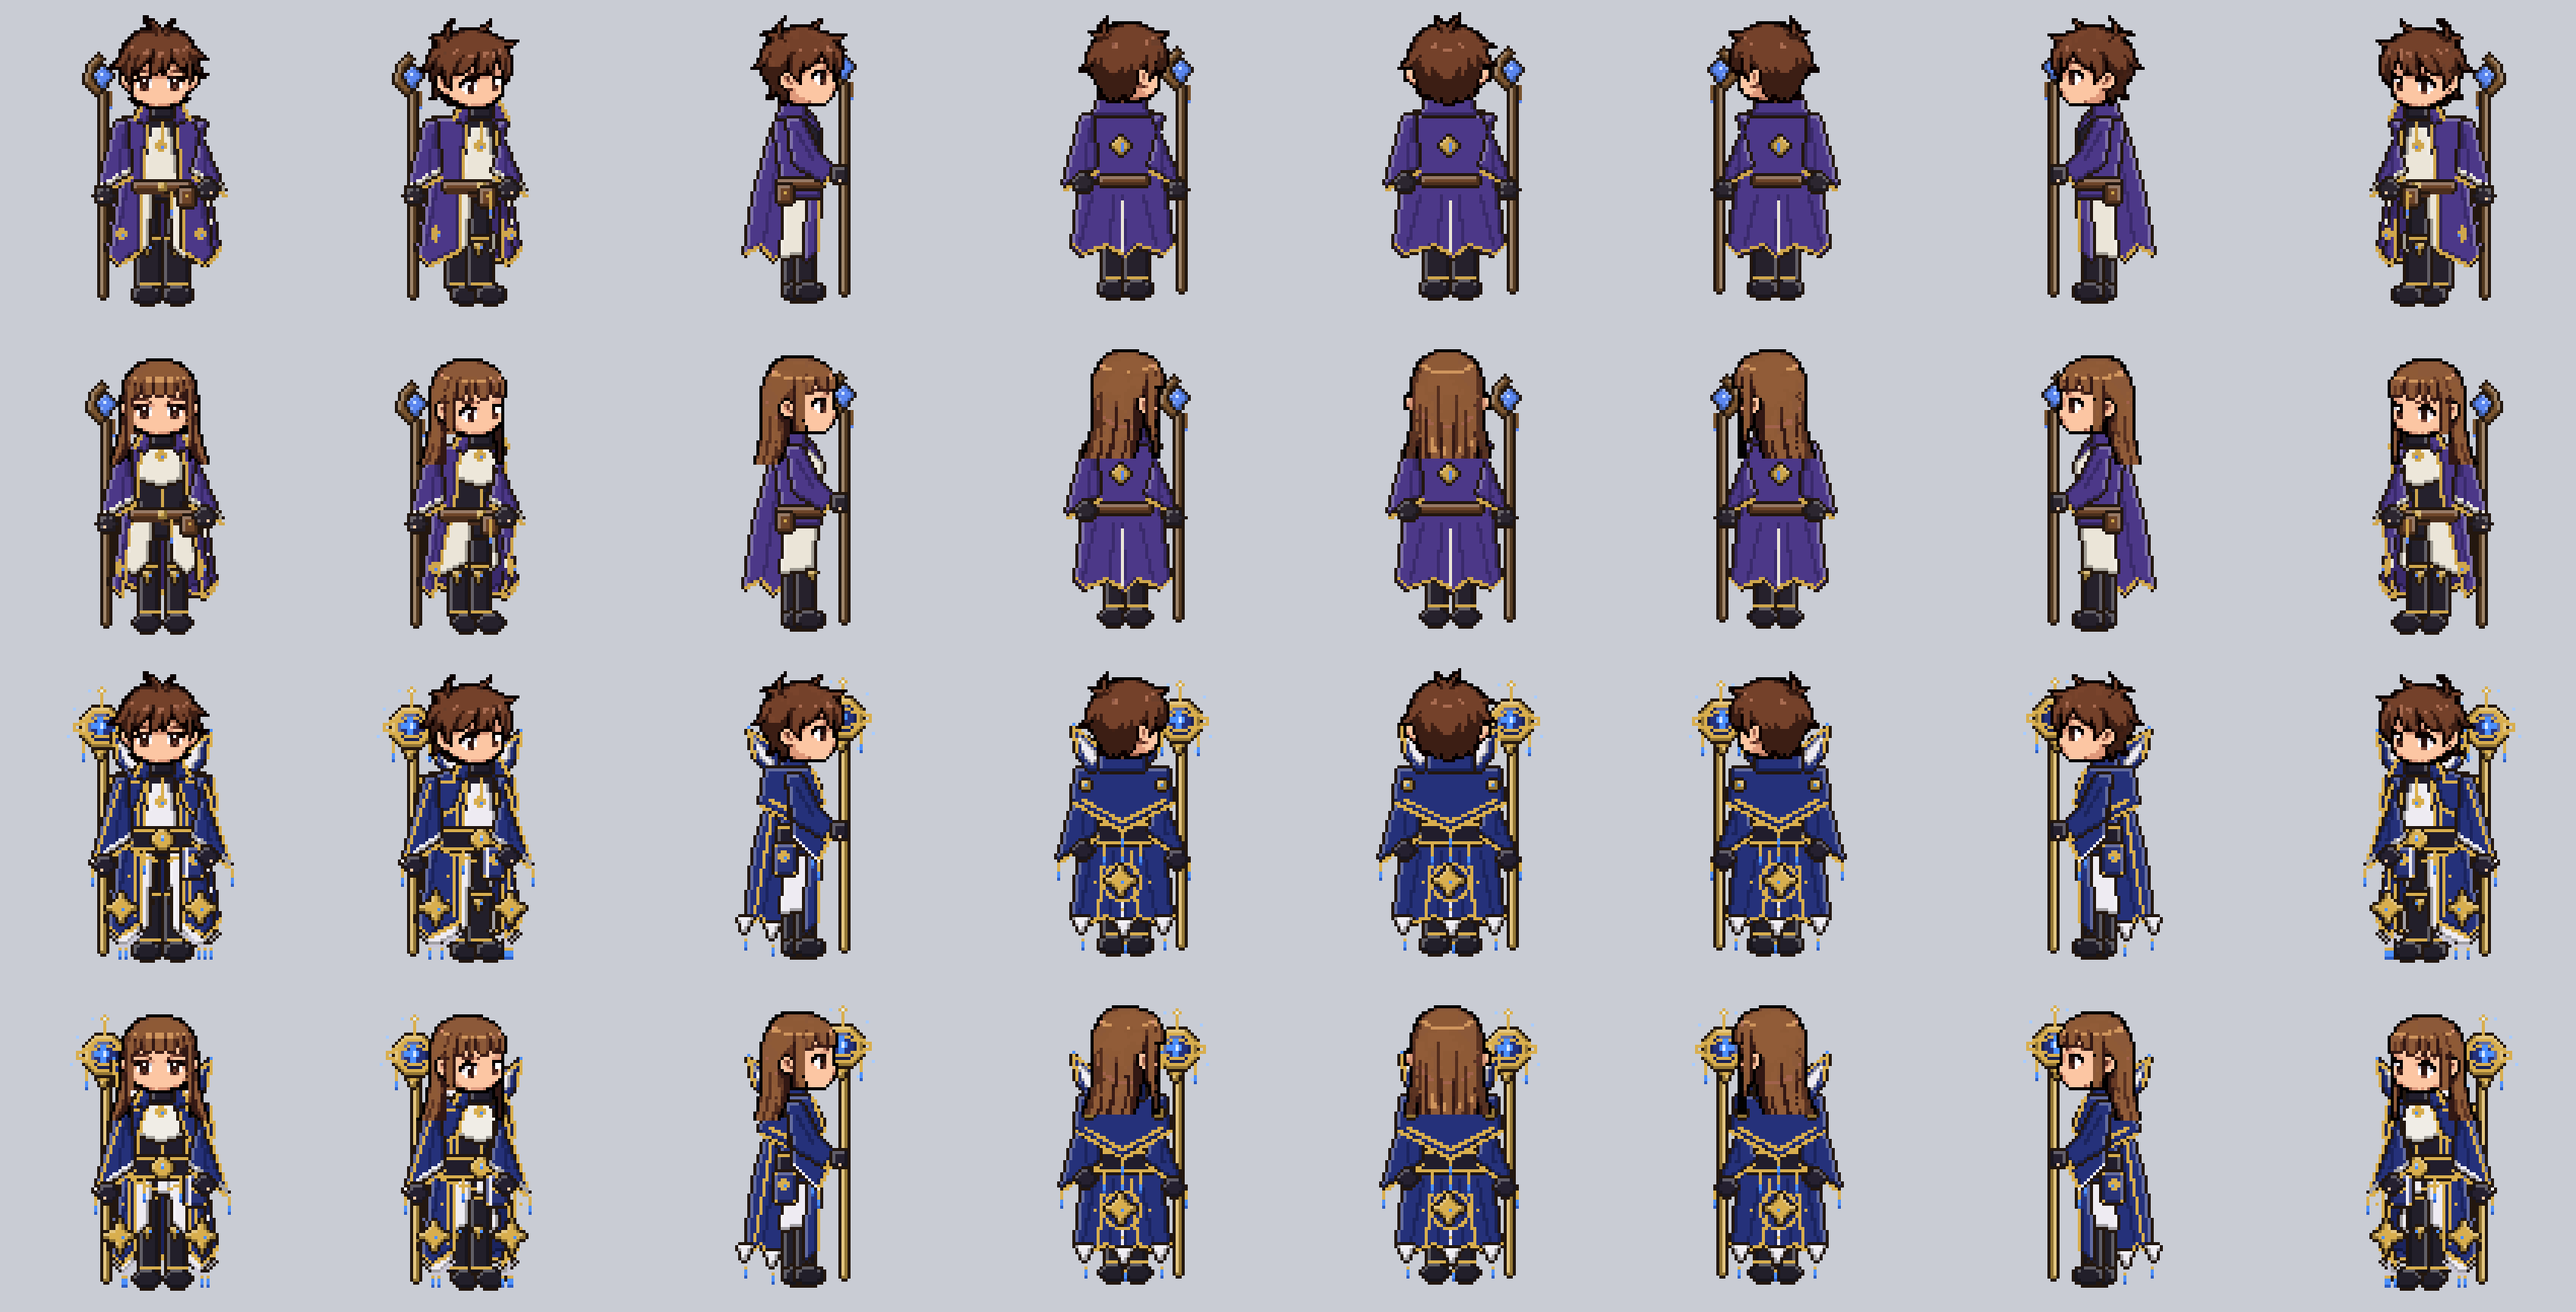
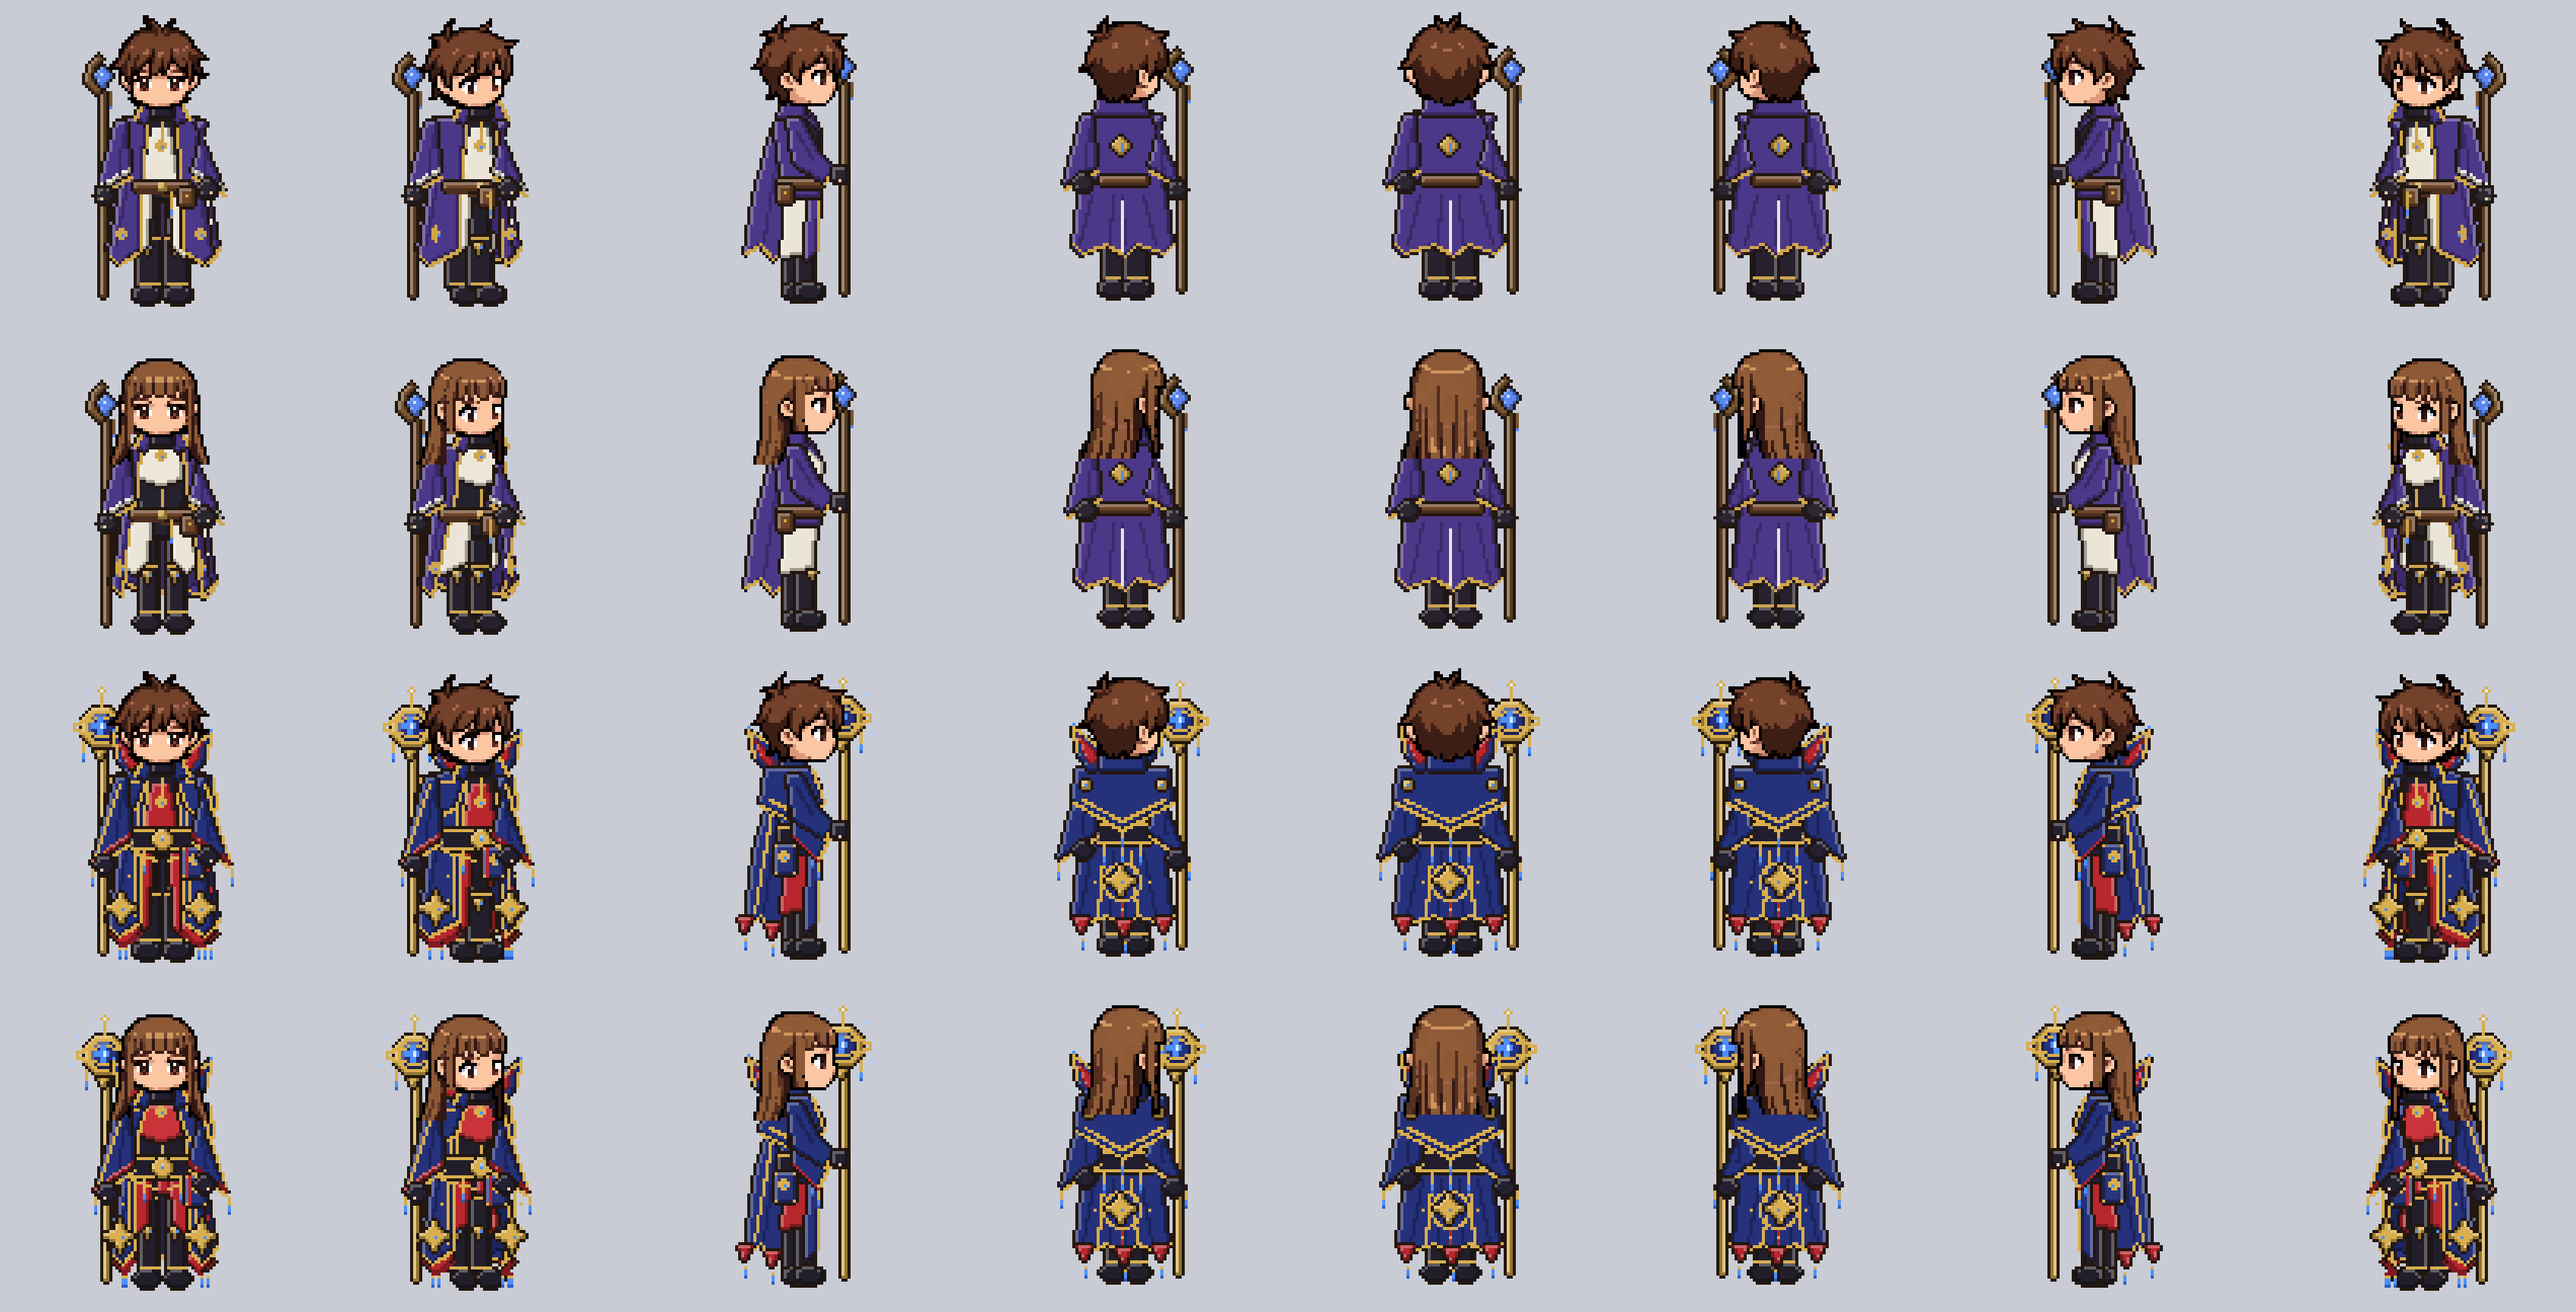
Wizard designs: the white layer, linings and her blouse turned red
Claude-Session: https://claude.ai/code/session_01YNjFsLY1wykPSJC6NrukSP

diff --git a/src/mages.js b/src/mages.js
@@ -5,9 +5,9 @@
 //   high collar, a black shirt with a gold and blue gem pendant, white inner panels, a brown belt
 //   with pouches, fingerless gloves, black trousers (black tights on her, with a white blouse and a
 //   black corset) and black boots edged in gold; a bronze staff holding a blue crystal in a ring.
-// - Wizard, grander than the Sorcerer: a deep navy robe to the ankles over a longer white layer,
+// - Wizard, grander than the Sorcerer: a deep navy robe to the ankles over a longer red layer,
 //   every point of its hem hung with a blue crystal, gold filigree down its panels, a tall flared
-//   collar standing behind the head, a broad gold-edged mantle with gems at the shoulders, long
+//   collar (red inside) standing behind the head, a broad gold-edged mantle with gems at the shoulders, long
 //   sleeves with crystal tassels, a wide black sash with a gold medallion, a chained book at the
 //   hip, black boots (thigh-high on her, the robe open over them); a tall gold staff with crossed
 //   rings around a blue star, sparkling.
@@ -24,8 +24,8 @@ const SORC = {
   gem: '#5a86f0', shaft: '#7a5530', glove: '#2c2630',
 };
 const WIZ = {
-  coat: '#25317a', fold: '#1b245e', lining: '#eeebf2', liningDk: '#c9c6d6', trim: '#d8ae4e', shirt: '#211d2c',
-  blouse: '#f0ede6', leather: '#5e3c26', strap: '#40281a', pants: '#1f1c27', boot: '#221f2a', skin: '#f2c8a2',
+  coat: '#25317a', fold: '#1b245e', lining: '#b8262e', liningDk: '#861a22', trim: '#d8ae4e', shirt: '#211d2c',
+  blouse: '#c8343a', leather: '#5e3c26', strap: '#40281a', pants: '#1f1c27', boot: '#221f2a', skin: '#f2c8a2',
   gem: '#4c90ff', shaft: '#d8ae4e', glove: '#252030', book: '#2a3478',
 };
 export const MAGES = {
@@ -99,7 +99,7 @@ function staff(F, x, top, bottom, C, wiz) {
 }
 
 // one side of the Wizard's tall collar, standing up behind the head and flaring out beside it,
-// white inside and edged in gold. X(u): a point u pixels out from the middle on this side
+// its lining inside and edged in gold. X(u): a point u pixels out from the middle on this side
 function collar(F, X, cy, C) {
   const pts = [[X(4), cy + 3], [X(7), cy - 4], [X(16), cy - 11], [X(15), cy - 3], [X(11), cy + 4]];
   F.part(poly(pts), C.coat);
